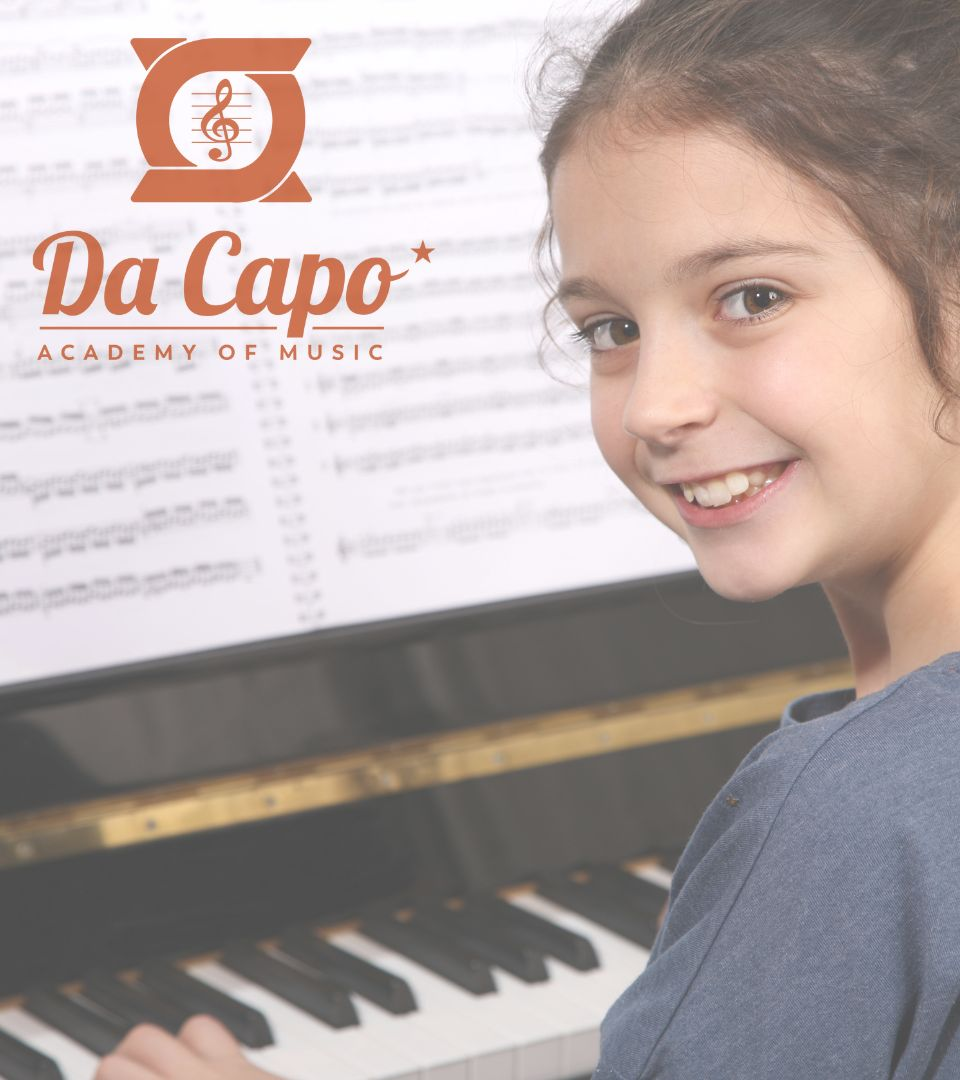
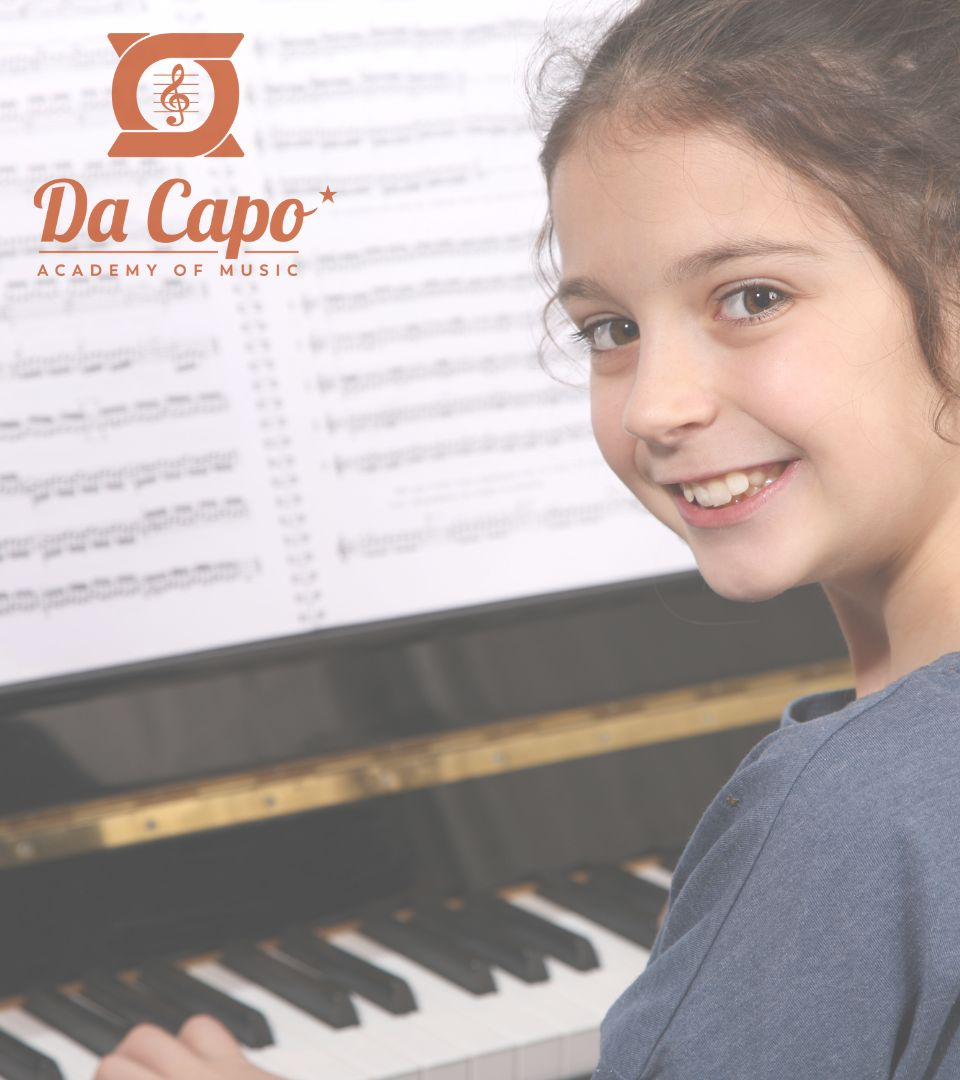
updated UI for login page, added user profile image to login header, fixed layout of success page

Changed region(s): [[0.0312, 0.0306, 0.4375, 0.3361], [0.4375, 0.2139, 0.4688, 0.2444]]

diff --git a/context/AuthContext.js b/context/AuthContext.js
@@ -35,14 +35,18 @@ export const AuthContextProvider = ({children}) => {
         setError(null)
         const userCredential = await signInWithEmailAndPassword(auth, email, password)
 
-        console.log("displayName added")
+        // await updateProfile(userCredential.user, {
+        //   photoURL: "https://firebasestorage.googleapis.com/v0/b/dcam-hours-worked.appspot.com/o/images%2Ftaisiya_profile.png?alt=media&token=5ea03622-d59f-4571-a158-2a8dfa28916f"
+        // })
+
+        // console.log("profilePhoto added")
 
         const route = routingObject[userCredential.user.uid]
 
         router.push(route)
 
     } catch(err) {
-        console.log("sign in failed:", err.message)
+        console.log("something went wrong:", err.message)
         let errorMessage
         switch(err.code) {
           case "auth/wrong-password": {

diff --git a/app/components/Header.jsx b/app/components/Header.jsx
@@ -12,7 +12,13 @@ export const Header = () => {
     <header className="h-16 bg-dcam-light-red px-3 md:px-6 flex justify-between items-center text-white">
         <Link href="/"><img src="/images/logo.png" alt="Da Capo Academy of Music Logo" style={{width: "150px"}} /></Link>
         <div className="text-center">{currentUser ? `Hey ${currentUser.displayName}!` : ""}</div>
-        {currentUser && <button className="dcam-btn flex-shrink-0" onClick={logOut}>Sign Out</button>}
+        
+        {currentUser && 
+          <div className="flex items-center">
+            <img src={currentUser.photoURL} className="hidden md:block h-10 me-3 rounded-full" alt="teacher profile photo" />
+            <button className="dcam-btn flex-shrink-0" onClick={logOut}>Sign Out</button>
+          </div>
+        }
     </header>
   )
 }

diff --git a/app/page.js b/app/page.js
@@ -36,7 +36,7 @@ export default function Home() {
   return (
     <main className={`flex flex-col lg:flex-row min-h-[calc(100vh-64px)] ${fade && "fade-out"}`}>
 
-      <div className="left-side w-[100%] h-[calc(100vh-64px)] bg-dcam-dark-blue grid place-items-center">
+      <div className="left-side w-[100%] min-h-[calc(100vh-64px)] bg-[url(/images/home_bg_left.jpg)] bg-cover grid place-items-center">
         <form className="flex flex-col bg-dcam-regular-blue bg-opacity-40 text-gray-100 rounded-md w-[340px] p-10 mx-auto" onSubmit={handleLogin}>
           <h1 className="text-2xl mb-5 text-center">Staff Login</h1>
           <label className="mb-4">

diff --git a/app/jonathan/hours/success/page.jsx b/app/jonathan/hours/success/page.jsx
@@ -32,7 +32,7 @@ const JonathanSuccessPage = () => {
 
     return (
         <>
-            <div className="flex flex-col w-full h-[calc(100vh-64px)] justify-center items-center bg-[url('/images/main_bg.jpg')] bg-cover bg-center">
+            <div className="flex flex-col justify-center items-center px-5 text-center w-full h-[calc(100vh-64px)] bg-[url('/images/main_bg.jpg')] bg-cover bg-center">
                 {successMessage && (
                     <>
                         <ConfettiExplosion />

diff --git a/app/taisiya/hours/success/page.jsx b/app/taisiya/hours/success/page.jsx
@@ -31,7 +31,7 @@ const TaisiyaSuccessPage = () => {
 
     return (
         <>
-            <div className="flex flex-col w-full h-[calc(100vh-64px)] justify-center items-center bg-[url('/images/main_bg.jpg')] bg-cover bg-center">
+            <div className="flex flex-col justify-center items-center px-5 text-center w-full h-[calc(100vh-64px)] bg-[url('/images/main_bg.jpg')] bg-cover bg-center">
                 {successMessage && (
                     <>
                         <ConfettiExplosion />

diff --git a/app/rachel/hours/success/page.jsx b/app/rachel/hours/success/page.jsx
@@ -31,7 +31,7 @@ const RachelSuccessPage = () => {
 
     return (
         <>
-            <div className="flex flex-col w-full h-[calc(100vh-64px)] justify-center items-center bg-[url('/images/main_bg.jpg')] bg-cover bg-center">
+            <div className="flex flex-col justify-center items-center px-5 text-center w-full h-[calc(100vh-64px)] bg-[url('/images/main_bg.jpg')] bg-cover bg-center">
                 {successMessage && (
                     <>
                         <ConfettiExplosion />

diff --git a/app/senya/hours/success/page.jsx b/app/senya/hours/success/page.jsx
@@ -31,7 +31,7 @@ const SenyaSuccessPage = () => {
 
     return (
         <>
-            <div className="flex flex-col w-full h-[calc(100vh-64px)] justify-center items-center bg-[url('/images/main_bg.jpg')] bg-cover bg-center">
+            <div className="flex flex-col justify-center items-center px-5 text-center w-full h-[calc(100vh-64px)] bg-[url('/images/main_bg.jpg')] bg-cover bg-center">
                 {successMessage && (
                     <>
                         <ConfettiExplosion />

diff --git a/app/tiago/hours/success/page.jsx b/app/tiago/hours/success/page.jsx
@@ -31,7 +31,7 @@ const TiagoSuccessPage = () => {
 
     return (
         <>
-            <div className="flex flex-col w-full h-[calc(100vh-64px)] justify-center items-center bg-[url('/images/main_bg.jpg')] bg-cover bg-center">
+            <div className="flex flex-col justify-center items-center px-5 text-center w-full h-[calc(100vh-64px)] bg-[url('/images/main_bg.jpg')] bg-cover bg-center">
                 {successMessage && (
                     <>
                         <ConfettiExplosion />

diff --git a/app/raul/hours/success/page.jsx b/app/raul/hours/success/page.jsx
@@ -31,7 +31,7 @@ const RaulSuccessPage = () => {
 
     return (
         <>
-            <div className="flex flex-col w-full h-[calc(100vh-64px)] justify-center items-center bg-[url('/images/main_bg.jpg')] bg-cover bg-center">
+            <div className="flex flex-col justify-center items-center px-5 text-center w-full h-[calc(100vh-64px)] bg-[url('/images/main_bg.jpg')] bg-cover bg-center">
                 {successMessage && (
                     <>
                         <ConfettiExplosion />
